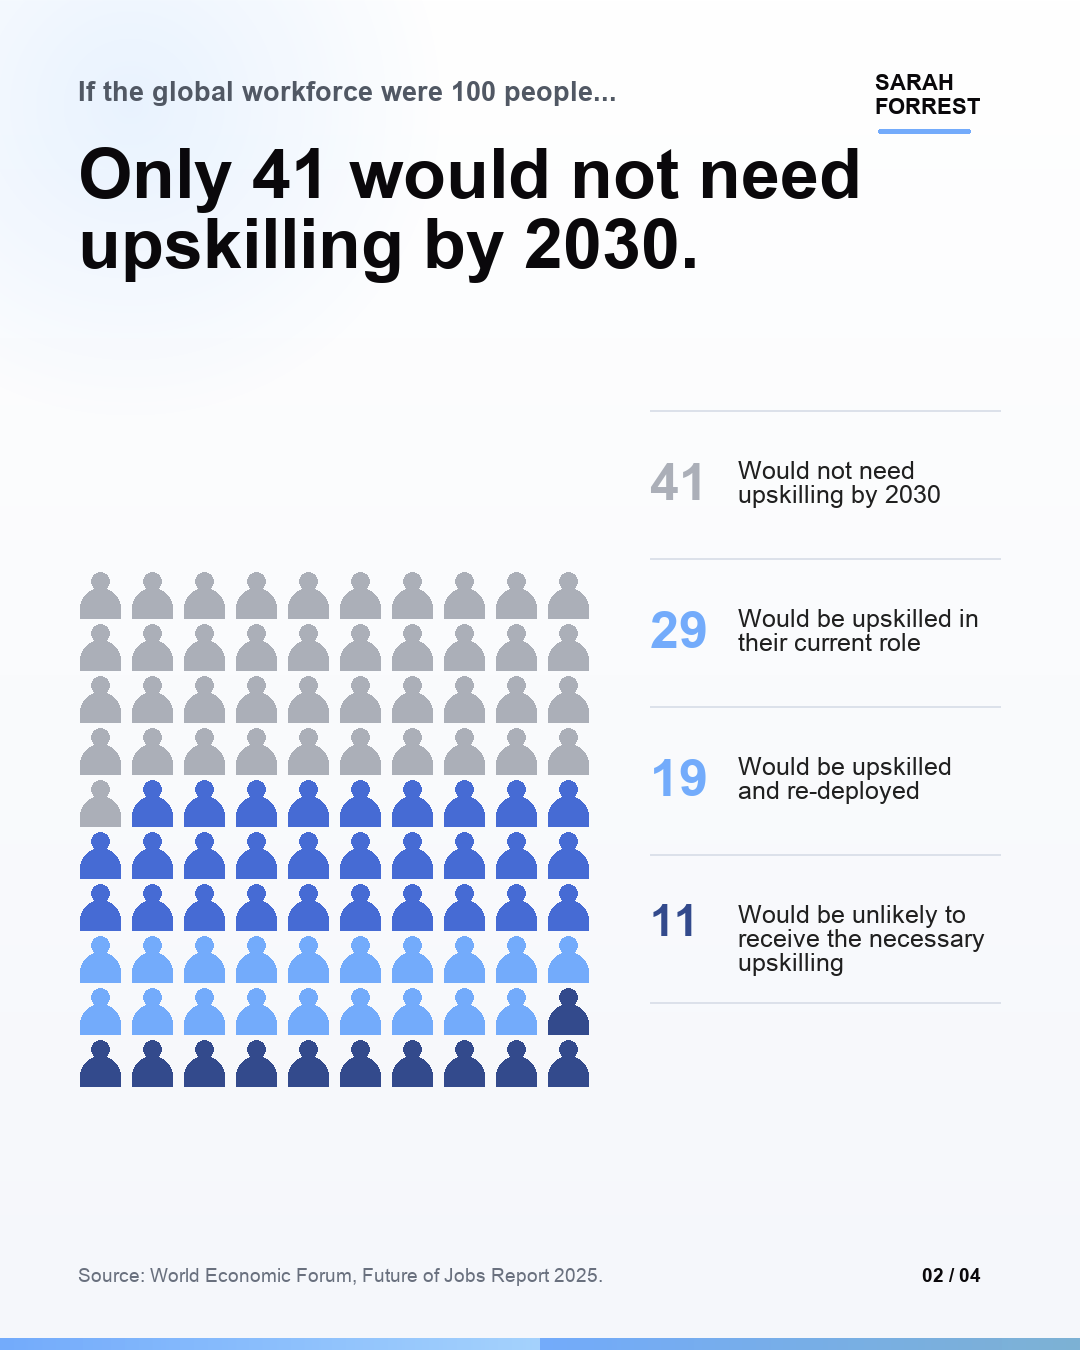
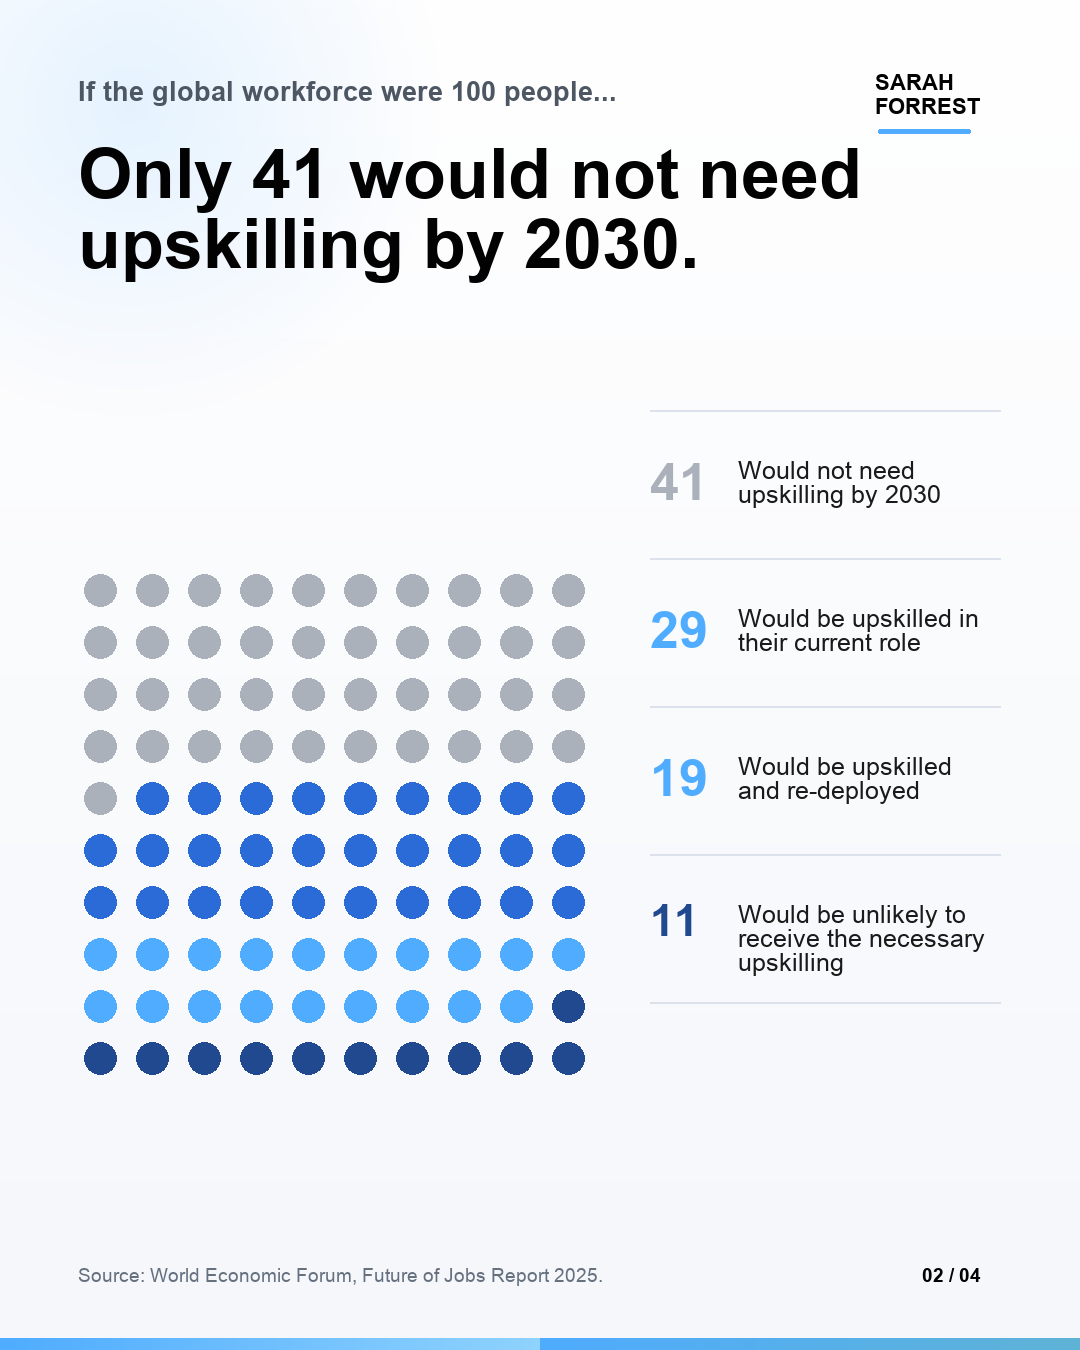
Update report image and Google wordmark

diff --git a/index.html b/index.html
@@ -4064,7 +4064,7 @@
                         <div class="learning-library-brand">
                             <span class="learning-library-tag">Google</span>
                             <span class="learning-library-logo learning-library-logo-google">
-                                <img src="google-logo.webp" alt="Google">
+                                <img src="Google_2015_logo.svg" alt="Google">
                             </span>
                         </div>
                         <h3>Google AI learning</h3>